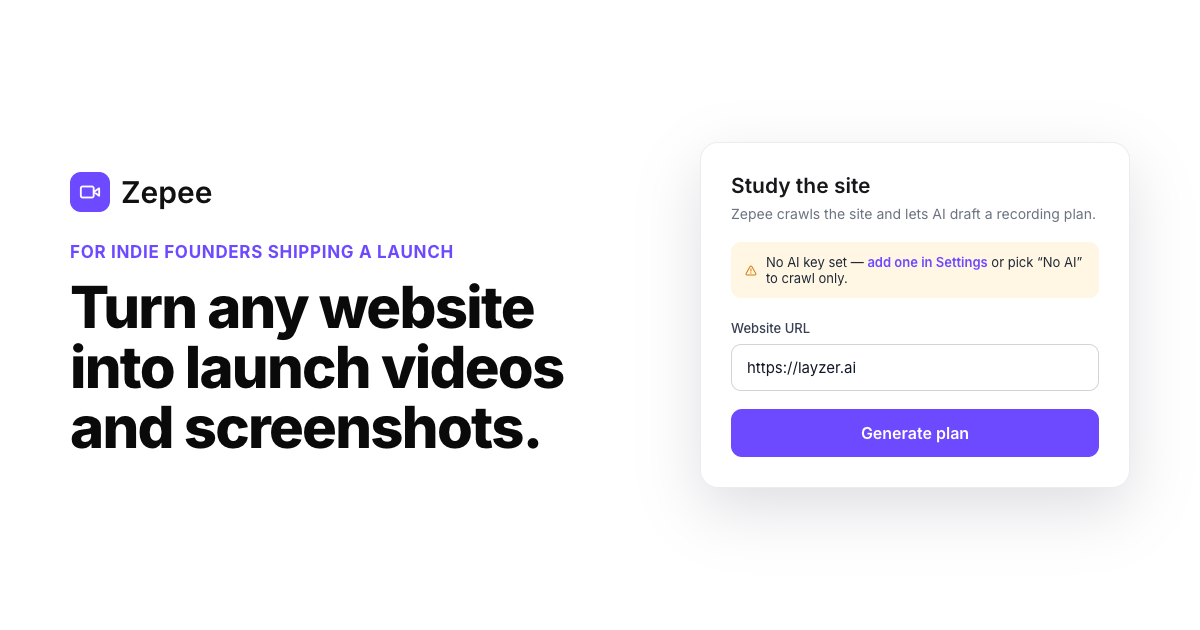
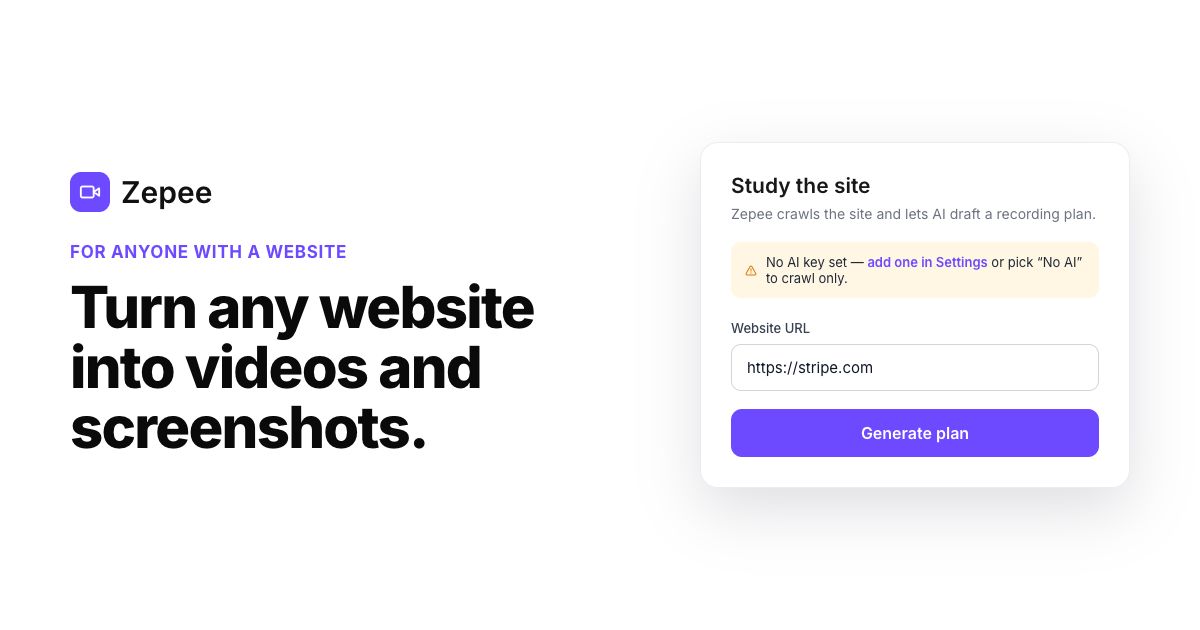
chore: sync landing page

Changed region(s): [[0.0617, 0.5429, 0.4933, 0.7238], [0.0925, 0.3921, 0.37, 0.4222], [0.6475, 0.573, 0.74, 0.6032]]

diff --git a/index.html b/index.html
@@ -9,10 +9,10 @@
         margin: 0;
       }
     </style>
-    <title>Zepee — turn any website into launch videos and screenshots</title>
+    <title>Zepee — turn any website into videos and screenshots</title>
     <meta
       name="description"
-      content="Zepee turns your website into a video and screenshots, automatically — no screen recording or editing. Join the waitlist."
+      content="Zepee turns your website into videos and screenshots, automatically — no screen recording or editing. Join the waitlist."
     />
     <link rel="icon" href="/favicon.svg" type="image/svg+xml" />
     <link rel="apple-touch-icon" href="/apple-touch-icon.png" />
@@ -22,11 +22,11 @@
     <!-- Open Graph / Facebook -->
     <meta
       property="og:title"
-      content="Zepee — turn any website into launch videos and screenshots"
+      content="Zepee — turn any website into videos and screenshots"
     />
     <meta
       property="og:description"
-      content="Zepee turns your website into a video and screenshots, automatically — no screen recording or editing."
+      content="Zepee turns your website into videos and screenshots, automatically — no screen recording or editing."
     />
     <meta property="og:type" content="website" />
     <meta property="og:locale" content="en_US" />
@@ -37,18 +37,18 @@
     <meta property="og:image:height" content="630" />
     <meta
       property="og:image:alt"
-      content="Zepee — turn any website into launch videos and screenshots"
+      content="Zepee — turn any website into videos and screenshots"
     />
 
     <!-- Twitter / X card -->
     <meta name="twitter:card" content="summary_large_image" />
     <meta
       name="twitter:title"
-      content="Zepee — turn any website into launch videos and screenshots"
+      content="Zepee — turn any website into videos and screenshots"
     />
     <meta
       name="twitter:description"
-      content="Zepee turns your website into a video and screenshots, automatically — no screen recording or editing."
+      content="Zepee turns your website into videos and screenshots, automatically — no screen recording or editing."
     />
     <meta name="twitter:image" content="https://zepee.com/og.png" />
 
@@ -66,7 +66,7 @@
             "@type": "WebSite",
             "name": "Zepee",
             "url": "https://zepee.com/",
-            "description": "Zepee turns your website into a video and screenshots, automatically — no screen recording or editing."
+            "description": "Zepee turns your website into videos and screenshots, automatically — no screen recording or editing."
           }
         ]
       }
@@ -121,18 +121,18 @@
             class="accent-text text-lg font-semibold uppercase"
             style="margin-bottom: 0.5rem"
           >
-            For indie founders shipping a launch
+            For anyone with a website
           </div>
           <h1 class="hero-title flex flex-wrap text-6xl max-lg:text-4xl">
             Turn any website
             <br />
-            into launch videos
+            into videos
             <br />
             and screenshots.
           </h1>
           <div class="reveal mt-10 p-2 max-lg:max-w-full">
             Tell Zepee what to show. It clicks through your website like a real
-            visitor and turns it into a video and screenshots — no screen
+            visitor and turns it into videos and screenshots — no screen
             recording or editing.
           </div>
 
@@ -190,11 +190,11 @@
     >
       <div class="flex max-w-[750px] flex-col gap-5 text-center">
         <h2 class="mt-5 text-4xl font-semibold max-lg:text-3xl">
-          Made for launch day
+          Made for showing off your site
         </h2>
 
         <div class="text-gray-700">
-          Zepee is for founders who need a great demo fast — without hiring an
+          Zepee is for anyone who needs a great demo fast — without hiring an
           editor or learning video tools. Point it at your site, get a demo that
           looks great, and run it again anytime your site changes so it stays up
           to date.
@@ -357,7 +357,7 @@
           <span class="text-2xl font-semibold">Zepee</span>
         </span>
         <div class="text-gray-700">
-          Turn any website into launch videos and screenshots.
+          Turn any website into videos and screenshots.
         </div>
       </div>
 

diff --git a/README.md b/README.md
@@ -2,7 +2,7 @@
 
 The landing page for **[Zepee](https://zepee.com)**.
 
-Zepee turns any website into a video and screenshots, automatically — no screen
+Zepee turns any website into videos and screenshots, automatically — no screen
 recording or editing. Give it a website link, tell it what to show, and it clicks
 through your live site like a real visitor, then hands you a video plus screenshots
 ready to post on Product Hunt, X, or your own site.